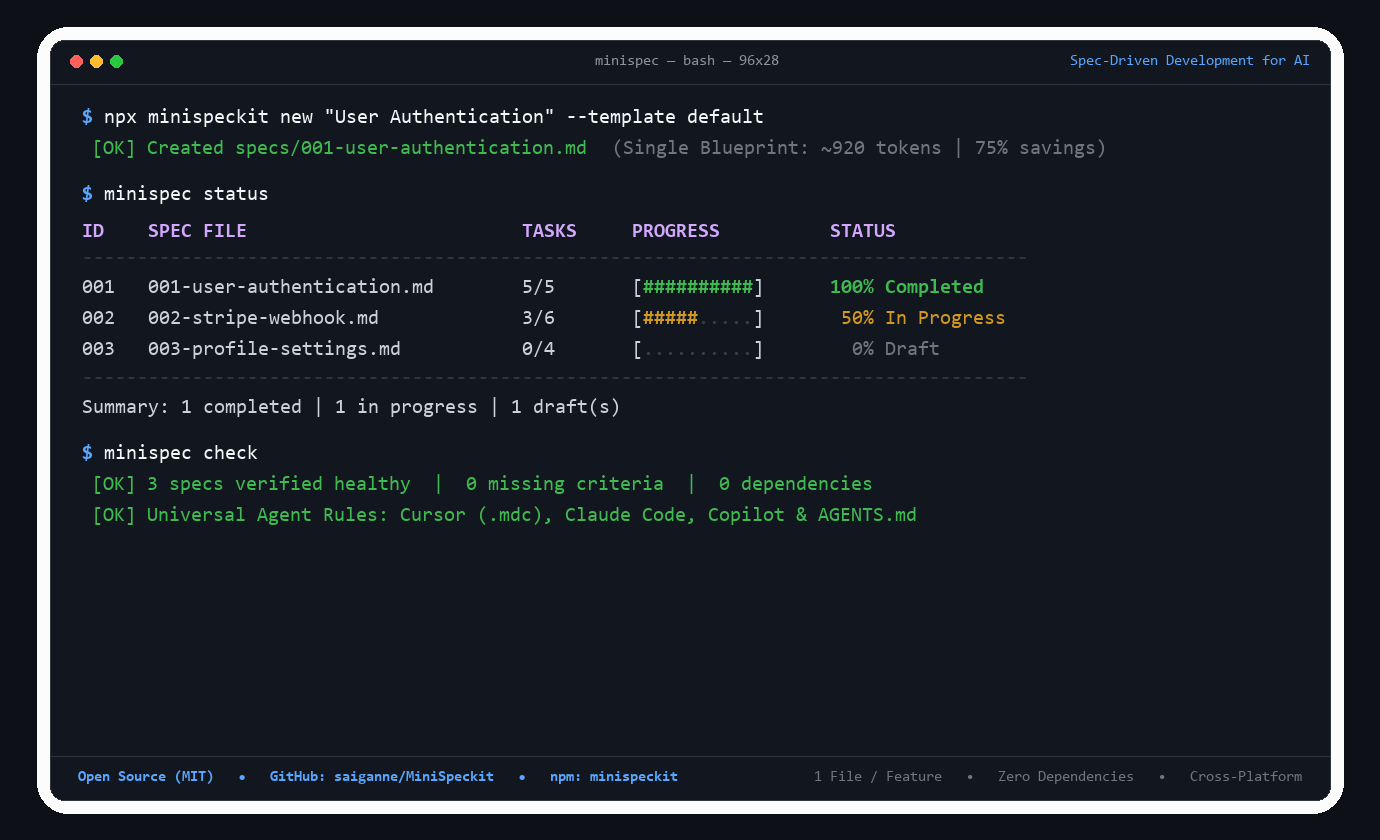
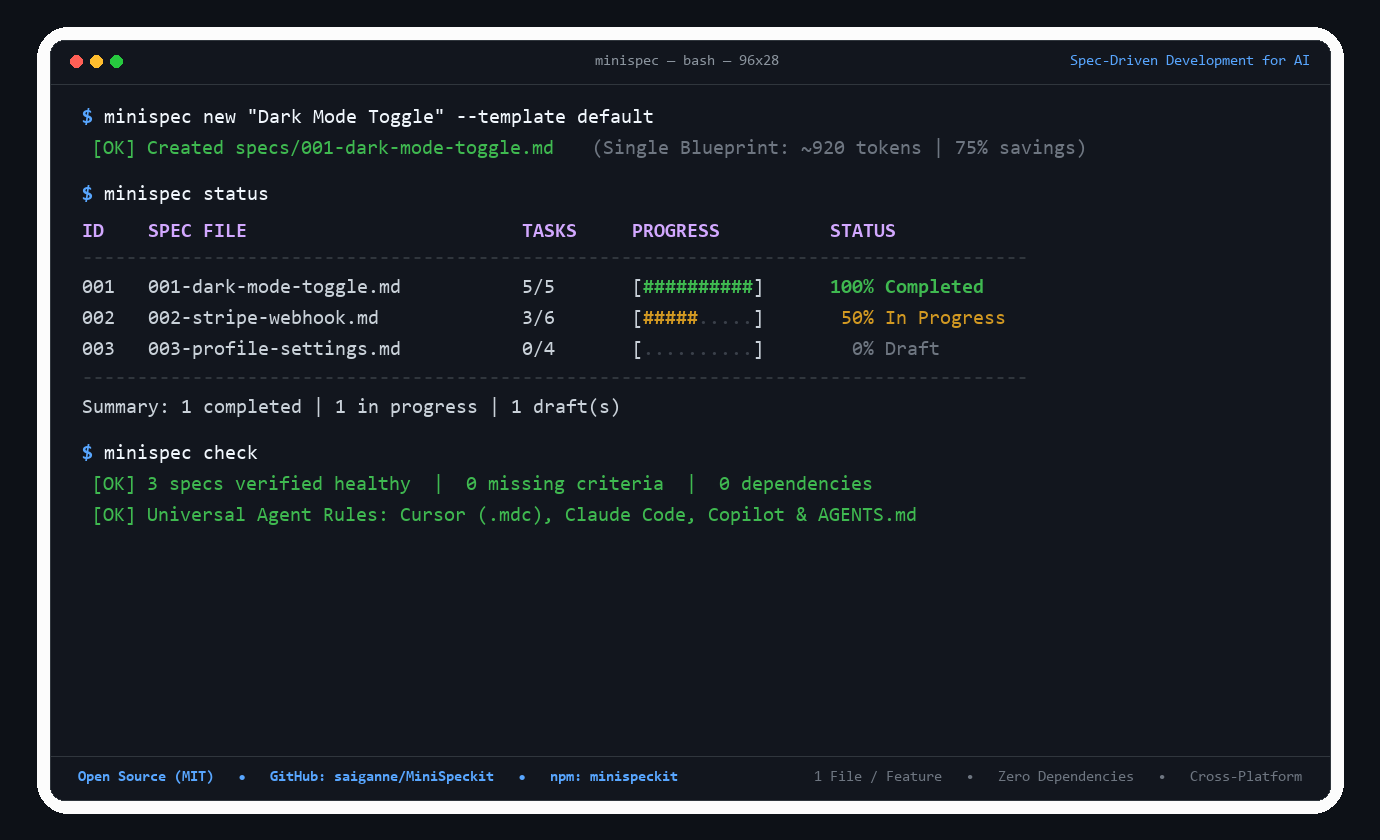
feat: update screenshots with Dark Mode Toggle, add subcommand --help support, and polish list output

Changed region(s): [[0.0623, 0.1238, 0.8101, 0.1857], [0.1558, 0.3405, 0.3116, 0.3714]]

diff --git a/bin/minispec.js b/bin/minispec.js
@@ -177,6 +177,11 @@ ${c.bold}EXAMPLES:${c.reset}
 }
 
 function cmdInit(args) {
+  if (args && (args.includes('--help') || args.includes('-h'))) {
+    console.log(`\n${c.bold}Usage:${c.reset} minispec init\n`);
+    console.log(`${c.dim}Initializes MiniSpeckit in the current project (creates specs/, default templates, and AGENTS.md).${c.reset}\n`);
+    return;
+  }
   const cwd = process.cwd();
   const specsDir = path.join(cwd, 'specs');
   const dotMinispec = path.join(cwd, '.minispec', 'templates');
@@ -236,6 +241,18 @@ function cmdInit(args) {
 }
 
 function cmdNew(args) {
+  if (args && (args.includes('--help') || args.includes('-h'))) {
+    console.log(`\n${c.bold}Usage:${c.reset} minispec new "<feature-name>" [options]\n`);
+    console.log(`${c.dim}Creates a single-file blueprint for any feature you want to build.${c.reset}\n`);
+    console.log(`${c.bold}Options:${c.reset}`);
+    console.log(`  ${c.yellow}-t, --template <name>${c.reset}    Template to use: default | api | bugfix (default: "default")`);
+    console.log(`  ${c.yellow}-h, --help${c.reset}               Show this help message\n`);
+    console.log(`${c.bold}Examples:${c.reset}`);
+    console.log(`  minispec new "Dark Mode Toggle"`);
+    console.log(`  minispec new "Payment Webhook" --template api`);
+    console.log(`  minispec new "Fix Memory Leak" --template bugfix\n`);
+    return;
+  }
   let templateName = 'default';
   const nonFlagArgs = [];
 
@@ -351,6 +368,11 @@ function cmdStatus(args) {
 }
 
 function cmdCheck(args) {
+  if (args && (args.includes('--help') || args.includes('-h'))) {
+    console.log(`\n${c.bold}Usage:${c.reset} minispec check\n`);
+    console.log(`${c.dim}Audits specifications for missing Acceptance Criteria, empty task lists, and healthy completion.${c.reset}\n`);
+    return;
+  }
   const cwd = process.cwd();
   const specsDir = path.join(cwd, 'specs');
   const specFiles = findSpecs(specsDir);
@@ -401,19 +423,25 @@ function cmdCheck(args) {
 }
 
 function cmdList(args) {
+  if (args && (args.includes('--help') || args.includes('-h'))) {
+    console.log(`\n${c.bold}Usage:${c.reset} minispec list\n`);
+    console.log(`${c.dim}Lists all feature specifications in the specs/ directory.${c.reset}\n`);
+    return;
+  }
   const cwd = process.cwd();
   const specsDir = path.join(cwd, 'specs');
   const specFiles = findSpecs(specsDir);
 
   if (specFiles.length === 0) {
-    console.log(`No specs found.`);
+    console.log(`\n${c.yellow}No specifications found in specs/${c.reset}`);
+    console.log(`Run ${c.cyan}minispec new "<feature-name>"${c.reset} to create your first spec.\n`);
     return;
   }
 
-  console.log(`\nSpecifications (${specFiles.length}):`);
+  console.log(`\n${c.bold}Specifications (${specFiles.length}):${c.reset}`);
   for (const s of specFiles) {
     const data = parseSpecFile(s.fullPath);
-    console.log(`  • [${data.id}] ${data.title} (${data.filename})`);
+    console.log(`  ${c.cyan}•${c.reset} [${c.bold}${data.id}${c.reset}] ${data.title} ${c.dim}(${data.filename} - ${data.status})${c.reset}`);
   }
   console.log('');
 }
